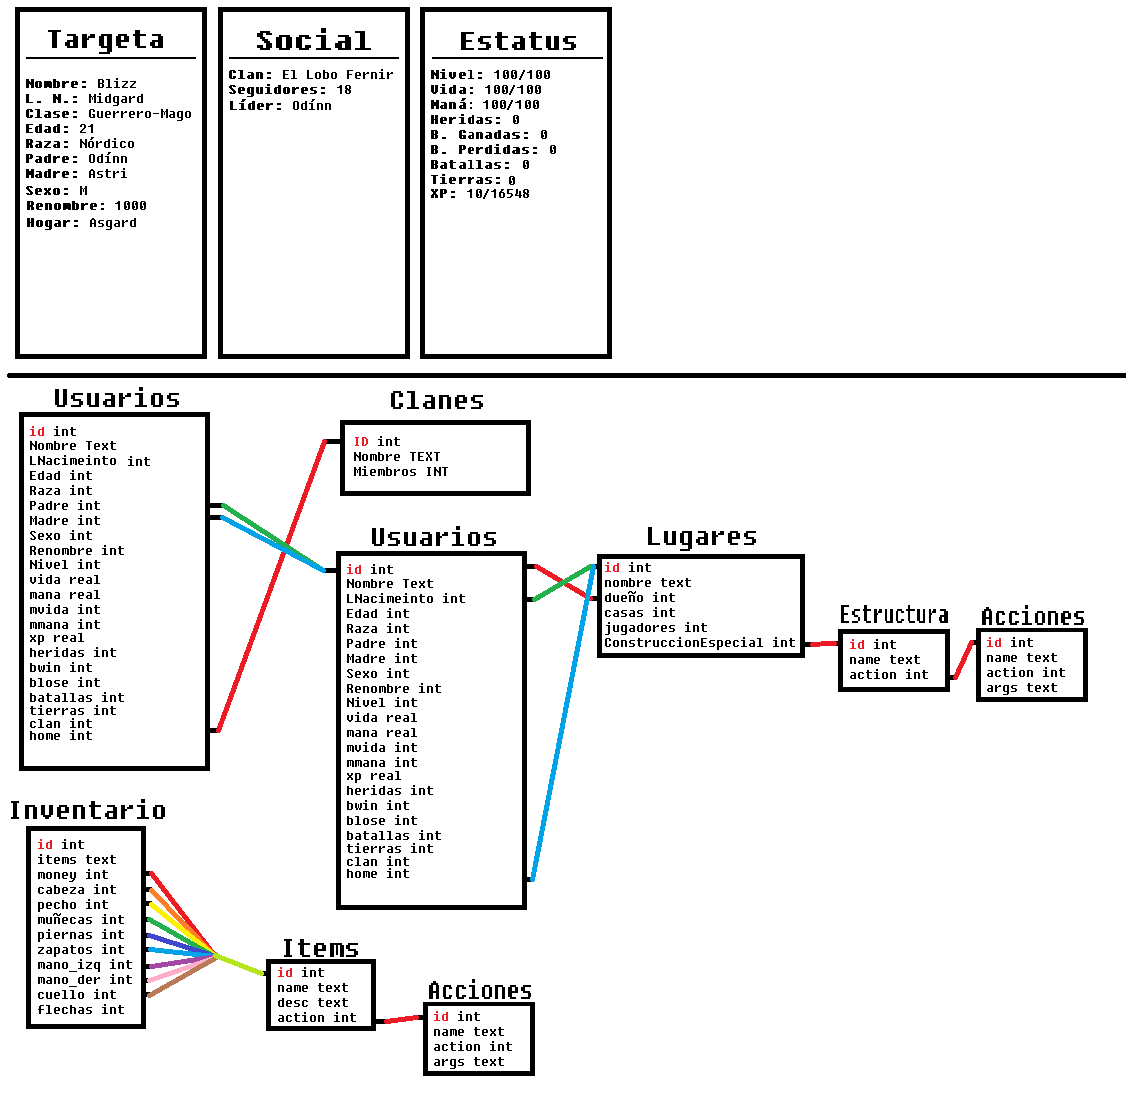
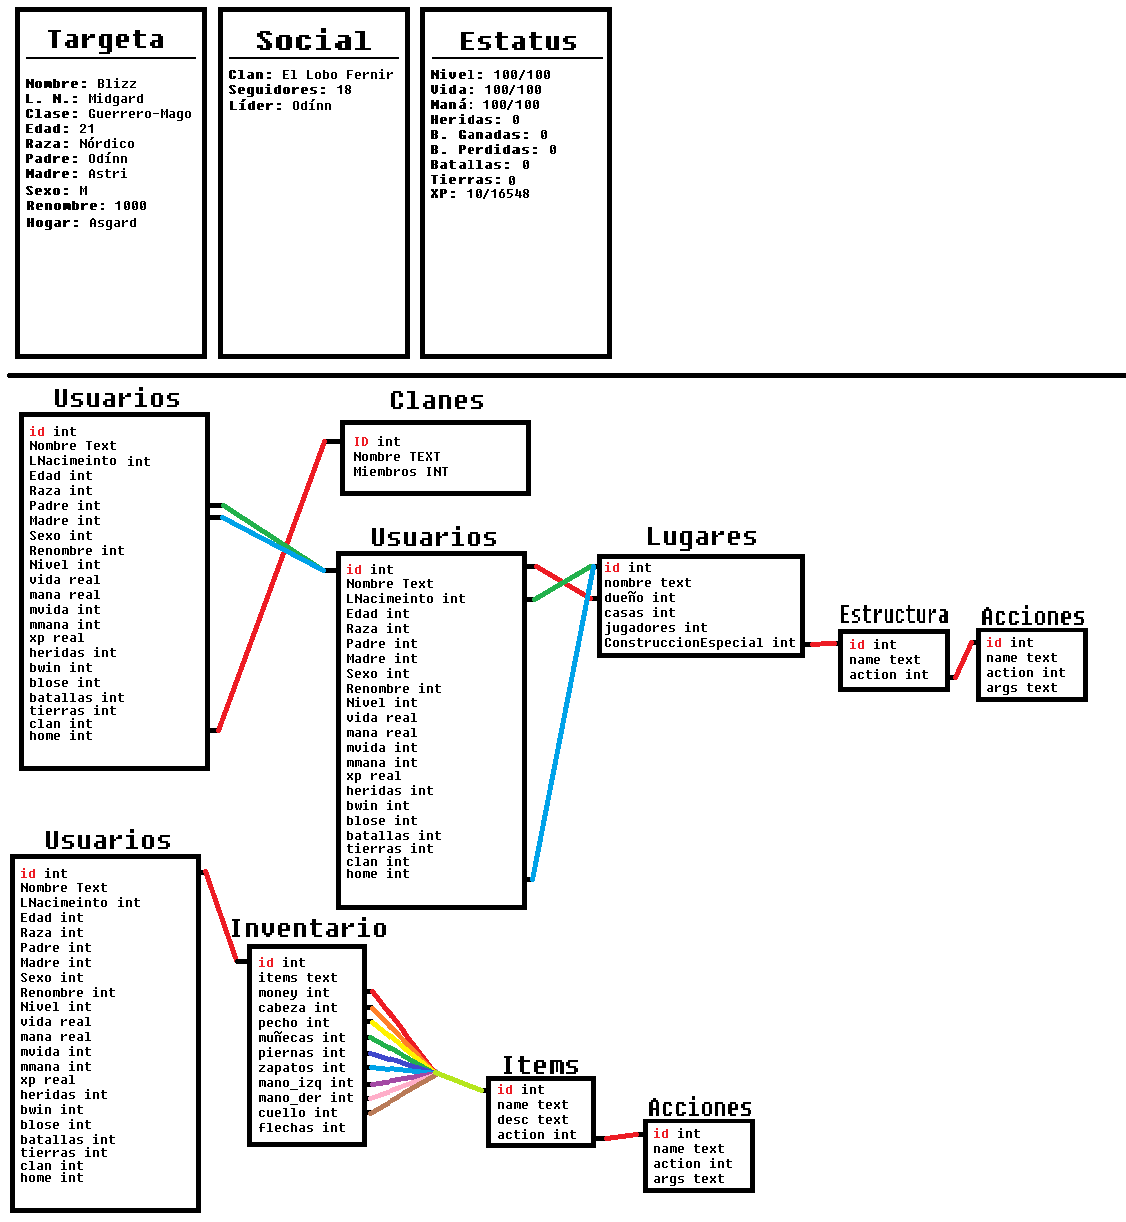
Actualzada la relacion de las tablas y agregada la tabla del inventario

diff --git a/main.py b/main.py
@@ -13,7 +13,7 @@ def start_db():
     dbm.createTable(db, "id INTEGER NOT NULL PRIMARY KEY AUTOINCREMENT", "nombre TEXT NOT NULL", "action INTEGER NOT NULL", "args TEXT NOT NULL", t_name="Acciones")
     dbm.createTable(db, "id INTEGER NOT NULL PRIMARY KEY AUTOINCREMENT", "nombre TEXT NOT NULL", "desc TEXT NOT NULL", "action INTEGER NOT NULL", t_name="Items")
     dbm.createTable(db, "id INTEGER NOT NULL PRIMARY KEY AUTOINCREMENT", "nombre TEXT NOT NULL", "dueño INTEGER NOT NULL",  "casas INTEGER NOT NULL", "jugadores INTEGER NOT NULL", "special INTEGER NOT NULL", t_name="Lugares")
-
+    dbm.createTable(db, "id INTEGER NOT NULL PRIMARY KEY AUTOINCREMENT", "items TEXT NOT NULL", "money INTEGER NOT NULL", "cabeza INTEGER NOT NULL", "pecho INTEGER NOT NULL", "muñecas INTEGER NOT NULL", "piernas INTEGER NOT NULL", "zapatos INTEGER NOT NULL", "mano_izq INTEGER NOT NULL", "mano_der INTEGER NOT NULL", "cuello INTEGER NOT NULL", "flechas INTEGER NOT NULL", t_name="Inventory")
     return db
 
 
